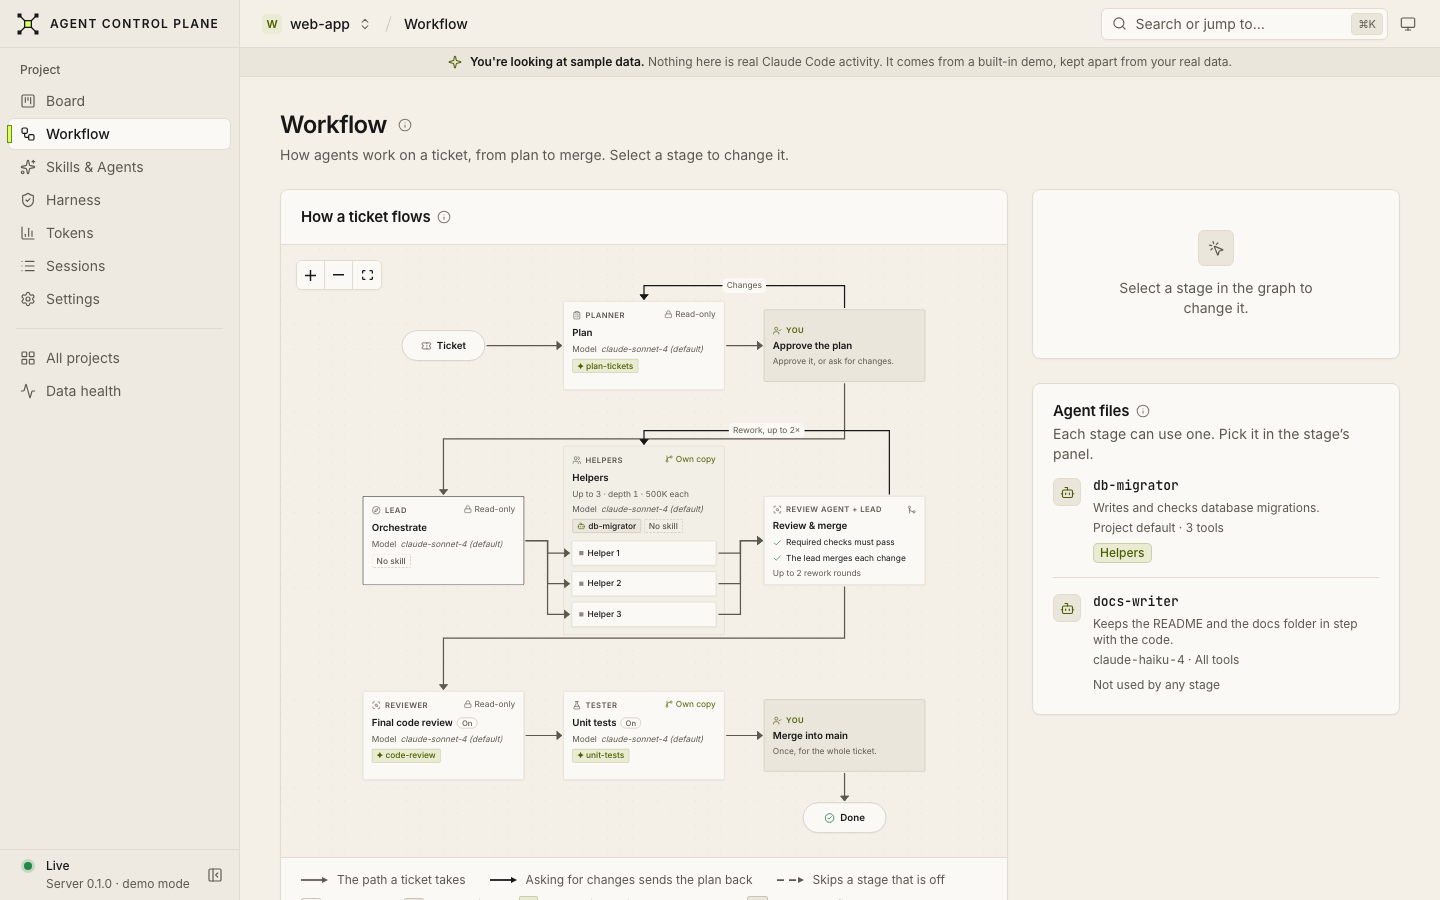
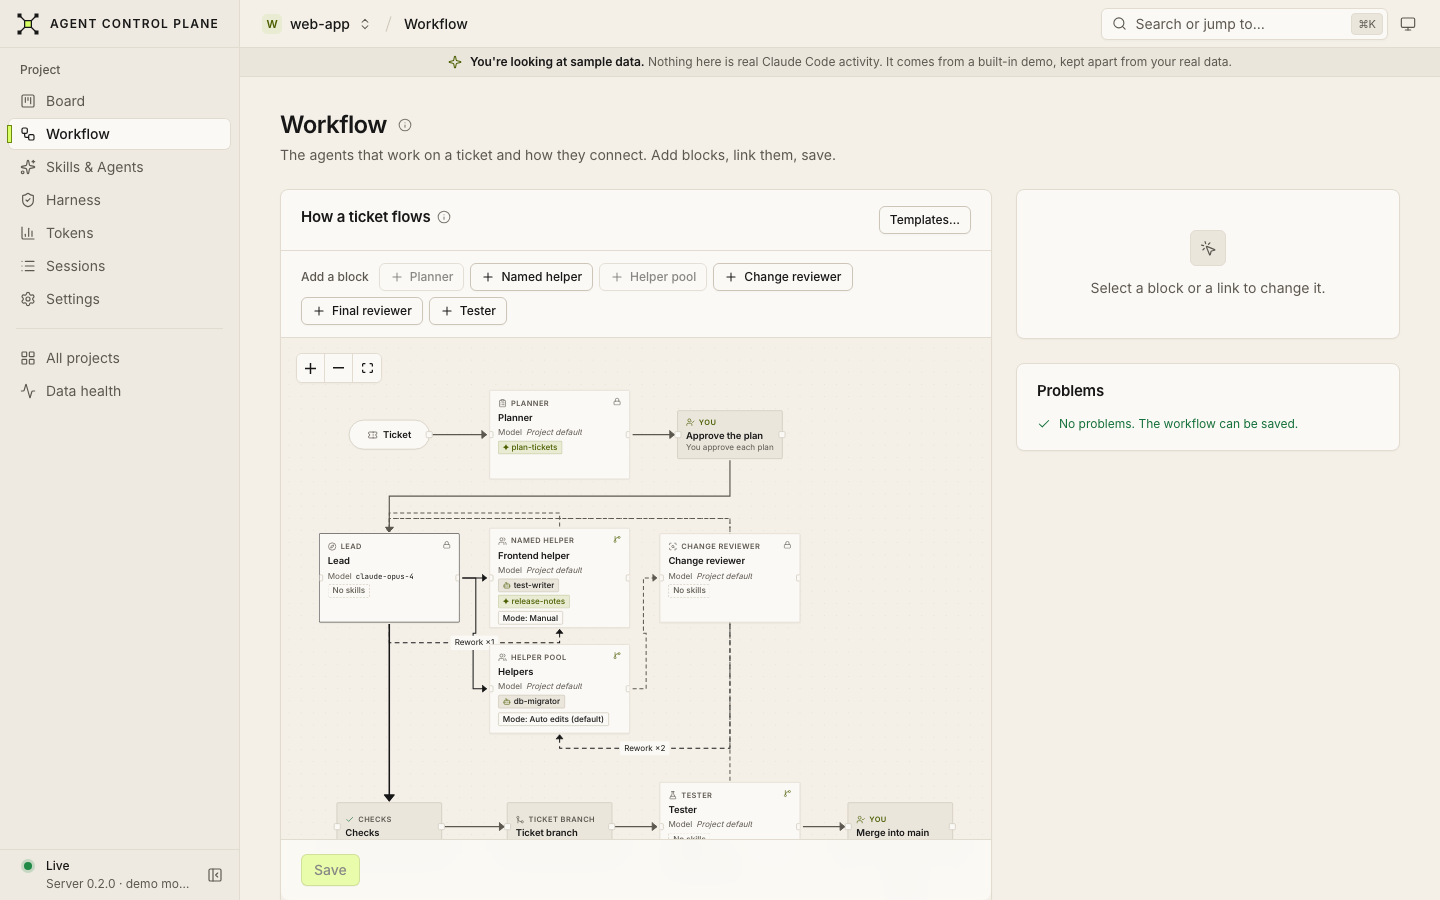
chore(release): v0.2.0
Editable workflow graphs per project (ADR-0023): the graph editor and
templates, named helpers, an approval mode per helper (ticket and run
modes as limits), review routes a, b and c, the live run graph; plus
start.sh, BUILD.md and START.md, and fixes found in verification (run
defaults for graph projects, the dialog that opened scrolled down,
checks stopped by a shutdown).

- Versions 0.2.0 in all package manifests; the lockfile is unchanged.
- CHANGELOG [0.2.0] - 2026-10-21 with compare links; README version,
  status and the real-run report link.
- README screenshots re-taken from sample data; the Workflow shot is
  the graph editor (the screenshot spec now serves /workflow-graph).

Verification: golden v1 traces identical; the simulator, exploration,
generated and exhaustive small graphs; the API fuzz; the v0.1.0 upgrade
test; the owner's data on a copy (all 5 projects, 0 errors, nothing
changed) and a rollback to v0.1.0 on it (37/37); four consented real
runs, a, b, c and mixed, every assertion true
(docs/research/wg-v-real-run-2026-10-21.md).

Checks: format ✓ lint ✓ typecheck ✓ test 4598/4598 ✓ build ✓; web e2e 72/72 ✓

diff --git a/packages/web/e2e/readme-screenshots.spec.ts b/packages/web/e2e/readme-screenshots.spec.ts
@@ -8,7 +8,14 @@ import {
   loopWorkingScenario,
 } from './review-loop-fixtures.js';
 import { fixtureProject } from './ticket-fixtures.js';
-import { WF_CSRF, agentFilesFixture, workflowFixture, setupFixture } from './workflow-fixtures.js';
+import {
+  WF_CSRF,
+  agentFilesFixture,
+  customGraph,
+  graphDto,
+  setupFixture,
+  workflowFixture,
+} from './workflow-fixtures.js';
 
 /*
  * The README screenshots, saved to docs/images/. Runs only with ACP_README_SHOTS set and the
@@ -191,6 +198,20 @@ async function withWorkflow(page: Page): Promise<void> {
   );
   await page.route(`**/api/projects/${PROJECT_ID}/agents`, (route) =>
     route.fulfill({ json: agentFilesFixture() }),
+  );
+  // ADR-0023: the Workflow page is the graph editor, so it reads the project's graph. The
+  // hand-built sample graph (planner, a named helper, the pool with a change reviewer that sends
+  // changes back, a tester) with every skill and agent file it names, so it shows no warnings.
+  await page.route(`**/api/projects/${PROJECT_ID}/workflow-graph`, (route) =>
+    route.fulfill({
+      json: graphDto({
+        graph: customGraph(),
+        stored: 'v2',
+        skills: ['code-review', 'plan-tickets', 'release-notes', 'unit-tests'],
+        agents: ['db-migrator', 'docs-writer', 'test-writer'],
+        updatedAt: '2026-10-21T09:00:00.000Z',
+      }),
+    }),
   );
 }
 
@@ -375,7 +396,7 @@ test('readme: the workflow', async ({ page }) => {
   await withWorkflow(page);
   await page.goto(`/#/p/${PROJECT_ID}/workflow`);
   await expect(h1(page)).toContainText('Workflow');
-  await expect(page.getByTestId('wf-node-plan')).toBeVisible();
+  await expect(page.getByTestId('block-helper-1')).toBeVisible();
   await shoot(page, 'workflow');
 });
 

diff --git a/README.md b/README.md
@@ -11,7 +11,7 @@
 </p>
 
 <p align="center">
-  <img alt="Version 0.1.0" src="https://img.shields.io/badge/version-0.1.0-171717">
+  <img alt="Version 0.2.0" src="https://img.shields.io/badge/version-0.2.0-171717">
   <img alt="License: MIT" src="https://img.shields.io/badge/license-MIT-171717">
   <img alt="Node 22" src="https://img.shields.io/badge/node-22-171717">
 </p>
@@ -26,9 +26,9 @@ its helpers, their reviews and the checks until you merge the result once.
 Everything runs on your computer. The server listens on `127.0.0.1` only, there is no telemetry, and
 your conversations with Claude Code are not stored.
 
-> **Status: v0.1.0 (preview).** Features and data formats may still change before 1.0.0. Claude Code
+> **Status: v0.2.0 (preview).** Features and data formats may still change before 1.0.0. Claude Code
 > is the first supported agent; Codex support is planned. The latest real runs against Claude Code
-> passed on 2026-10-17 ([report](docs/research/rl-v-real-run-2026-10-17.md)).
+> passed on 2026-10-21 ([report](docs/research/wg-v-real-run-2026-10-21.md)).
 
 ## What it does
 
@@ -41,11 +41,11 @@ its state, its checks and the reviewer's findings.
 
 ![A ticket page during a run: the agent tree, a change sent back for rework, and the change list](docs/images/ticket-run.png)
 
-| The workflow of a project                                                                                              | Sessions and the agent tree                                                                              |
-| ---------------------------------------------------------------------------------------------------------------------- | -------------------------------------------------------------------------------------------------------- |
-| ![The workflow: plan, approve, orchestrate, helpers, review, code review, unit tests, merge](docs/images/workflow.png) | ![The sessions of a sample project with the helper agents one session started](docs/images/sessions.png) |
-| **Tokens: new work and cache reuse**                                                                                   | **Skills and agent files**                                                                               |
-| ![Token usage over three weeks, by day](docs/images/tokens.png)                                                        | ![The Skills & Agents page with three skills](docs/images/skills.png)                                    |
+| Your own workflow, as a graph                                                                                                                                                            | Sessions and the agent tree                                                                              |
+| ---------------------------------------------------------------------------------------------------------------------------------------------------------------------------------------- | -------------------------------------------------------------------------------------------------------- |
+| ![The workflow editor: a planner, the lead, a named Frontend helper, the helper pool with a change reviewer that sends changes back, a tester, and your merge](docs/images/workflow.png) | ![The sessions of a sample project with the helper agents one session started](docs/images/sessions.png) |
+| **Tokens: new work and cache reuse**                                                                                                                                                     | **Skills and agent files**                                                                               |
+| ![Token usage over three weeks, by day](docs/images/tokens.png)                                                                                                                          | ![The Skills & Agents page with three skills](docs/images/skills.png)                                    |
 
 <details>
 <summary>Dark theme</summary>

diff --git a/CHANGELOG.md b/CHANGELOG.md
@@ -7,6 +7,8 @@ adheres to [Semantic Versioning](https://semver.org/spec/v2.0.0.html).
 
 ## [Unreleased]
 
+## [0.2.0] - 2026-10-21
+
 Your own workflow for each project. Draw which agents work on a ticket and how they review each
 other's changes, give each helper its own approval mode, and follow the run on a live graph. Your
 current workflow is converted for you when the app starts, and nothing in your data changes
@@ -241,6 +243,7 @@ an early version: features and data formats may change in any release before 1.0
   - Logs are redacted.
   - The app never reads Claude Code's session credential files, settings files or prompt history.
 
-[Unreleased]: https://github.com/keerthivibisan/agent-control-plane/compare/v0.1.0...HEAD
+[Unreleased]: https://github.com/keerthivibisan/agent-control-plane/compare/v0.2.0...HEAD
+[0.2.0]: https://github.com/keerthivibisan/agent-control-plane/compare/v0.1.0...v0.2.0
 [0.1.0]: https://github.com/keerthivibisan/agent-control-plane/compare/v0.0.1...v0.1.0
 [0.0.1]: https://github.com/keerthivibisan/agent-control-plane/releases/tag/v0.0.1

diff --git a/docs/workflow-graph/STATUS.md b/docs/workflow-graph/STATUS.md
@@ -237,3 +237,14 @@ plan-approval` without a planner;
   longer calls them for graph projects; they stay for v1 and default projects, older clients and
   the live view's fallback, and the upgrade test covers them. Removal is deferred to a later
   release.
+- 2026-10-21 **Release 0.2.0 prepared on `release/0.2.0`.**
+  - Versions are 0.2.0 in all 8 package manifests (the lockfile is unchanged).
+  - CHANGELOG `[0.2.0] - 2026-10-21` with its compare links; the README version, status and
+    real-run link.
+  - The README screenshots were re-taken. The Workflow shot is the graph editor; the screenshot
+    spec now serves `/workflow-graph`.
+  - Release notes are in `.acp-data/release-notes-v0.2.0.md` and the PR text in
+    `.acp-data/pr-v0.2.0.md` (both git-ignored, in the coordinator worktree).
+  - Final check: 4,598 tests; e2e 72/72.
+  - **Next, for the owner:** push `release/0.2.0`, open the PR to `main` in GitHub, run CI on the
+    branch by hand, merge, then tag `v0.2.0` on `main` with the GitHub release.
